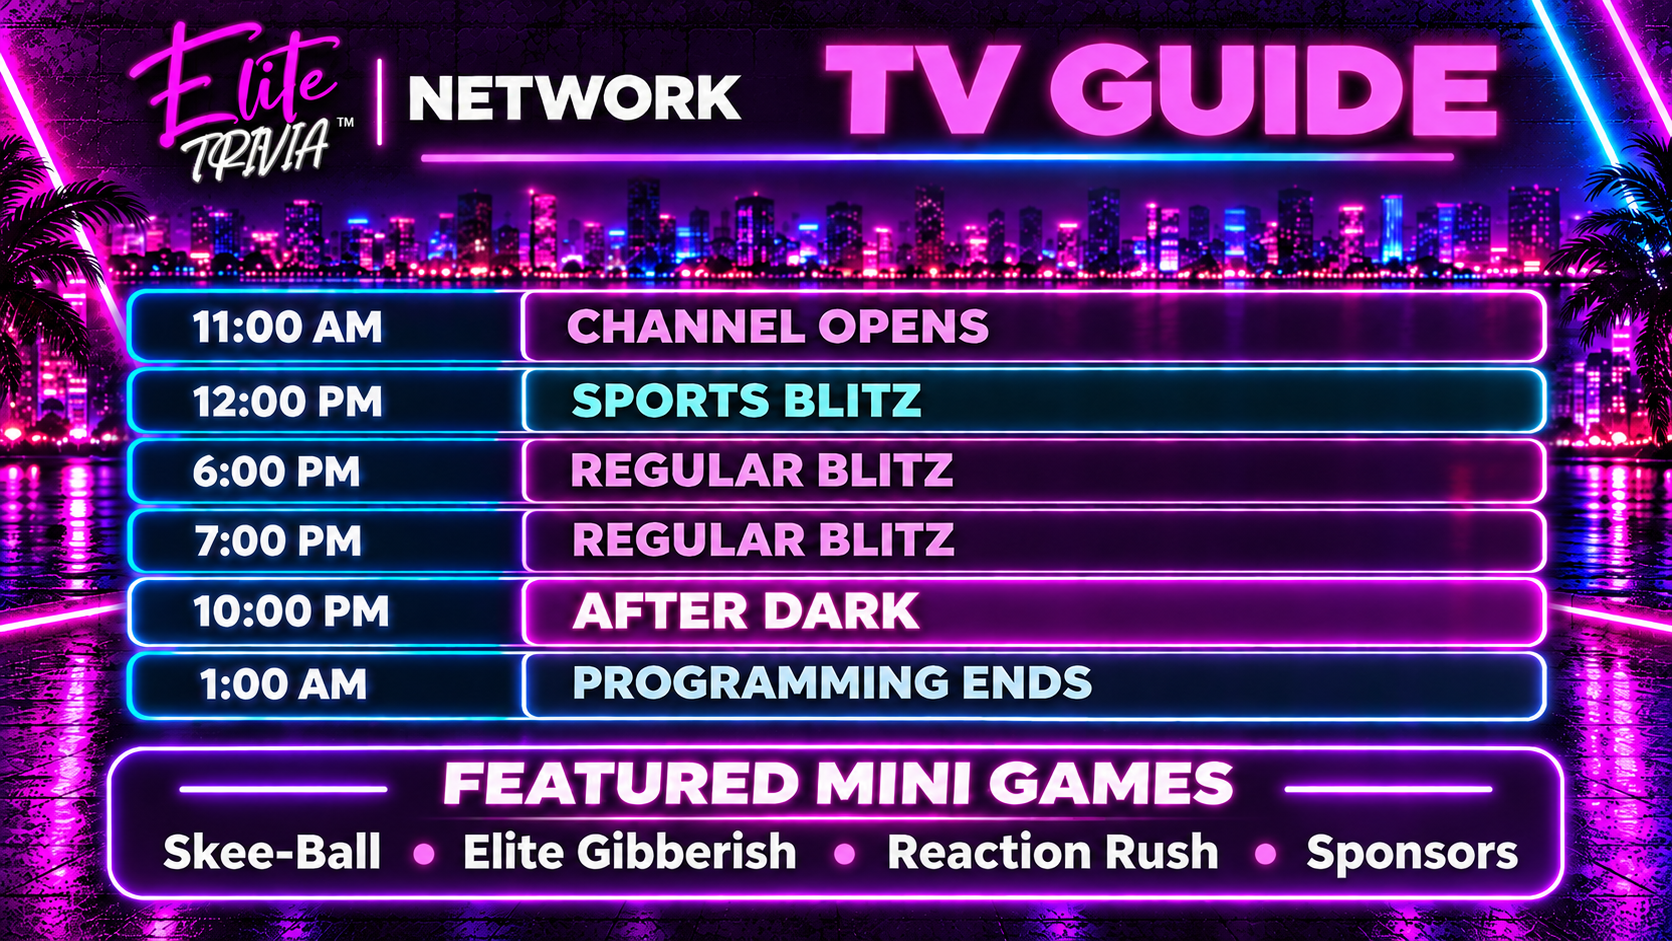
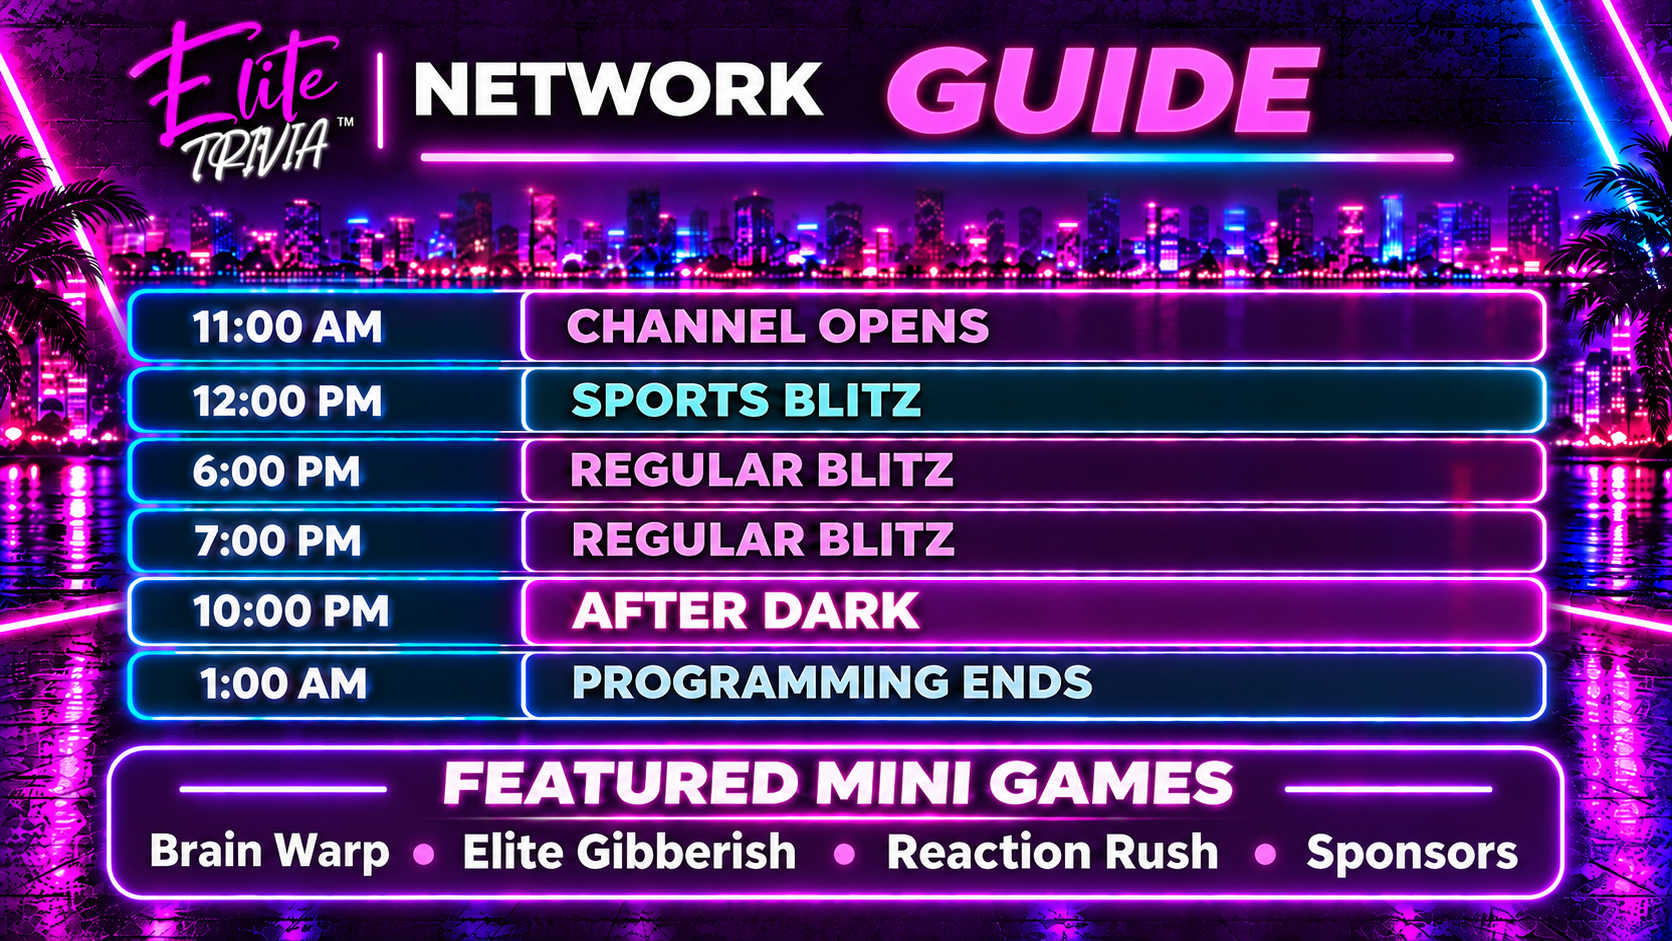
Improve Elite Network Blitz timing, mini-game rotation, TV layout and slides

Changed region(s): [[0.0, 0.0, 1.0, 1.0], [0.7775, 0.8937, 0.9019, 0.9245]]

diff --git a/web/tv.html b/web/tv.html
@@ -590,13 +590,13 @@ html,body{margin:0;width:100%;height:100%;overflow:hidden;background:#02040a;fon
 #eliteStableMiniJoin{padding:3% 5% 8%;--mj-unit:min(1vw,1.7778vh)}
 #eliteStableMiniJoin .eliteMiniJoinLayout{display:grid;grid-template-columns:minmax(0,1fr) 32%;gap:5%;align-items:center;width:100%;max-height:100%}
 #eliteStableMiniJoin .eliteMiniJoinCopy{min-width:0;text-align:center}
-#eliteStableMiniJoin .networkKicker{font-size:calc(var(--mj-unit)*1.8);margin:0 0 calc(var(--mj-unit)*.75)}
-#eliteStableMiniJoin .networkTitle{font-size:calc(var(--mj-unit)*4.2);line-height:1.04}
-#eliteStableMiniJoin .networkSub{font-size:calc(var(--mj-unit)*2.05);margin-top:calc(var(--mj-unit)*.85);line-height:1.15;overflow-wrap:anywhere}
-#eliteStableMiniJoin .comingTime{font-size:calc(var(--mj-unit)*5.4);margin:calc(var(--mj-unit)*.85) 0;line-height:1}
+#eliteStableMiniJoin .networkKicker{font-size:calc(var(--mj-unit)*1.9);margin:0 0 calc(var(--mj-unit)*.75)}
+#eliteStableMiniJoin .networkTitle{font-size:calc(var(--mj-unit)*4.5);line-height:1.04}
+#eliteStableMiniJoin .networkSub{font-size:calc(var(--mj-unit)*2.18);margin-top:calc(var(--mj-unit)*.85);line-height:1.15;overflow-wrap:anywhere}
+#eliteStableMiniJoin .comingTime{font-size:calc(var(--mj-unit)*5.75);margin:calc(var(--mj-unit)*.85) 0;line-height:1}
 #eliteStableMiniJoin .networkNext{font-size:calc(var(--mj-unit)*1.55);margin-top:calc(var(--mj-unit)*1.15);padding:calc(var(--mj-unit)*.7) calc(var(--mj-unit)*1.3);line-height:1.2}
 #eliteStableMiniJoin .eliteMiniJoinQr{justify-self:center;background:white;padding:calc(var(--mj-unit)*.85);border-radius:18px}
-#eliteStableMiniJoin .eliteMiniJoinQr img{display:block;width:calc(var(--mj-unit)*22);height:calc(var(--mj-unit)*22);object-fit:contain}
+#eliteStableMiniJoin .eliteMiniJoinQr img{display:block;width:calc(var(--mj-unit)*23);height:calc(var(--mj-unit)*23);object-fit:contain}
 
 /* ELITE_RESULT_STAGES_20261120: show answer then large, centered results. */
 .eliteCenterReveal{width:96%;height:88%;max-width:1500px;margin:auto;padding:1.1% 2%;
@@ -737,11 +737,11 @@ function renderCategory(state){
 
       <div style="width:66%;height:100%;display:flex;flex-direction:column;align-items:center;justify-content:center;text-align:center;min-width:0">
 
-        <div class="pill">
+        <div class="pill" style="font-size:38px;line-height:1.15">
           ROUND ${q.round}  -  QUESTION ${q.question_number} OF ${state.round_question_count}
         </div>
 
-        <div class="categoryTitle" style="width:100%;max-height:56%;font-size:145px;margin:4% 0 2%;overflow:hidden">
+        <div class="categoryTitle" style="width:100%;max-height:62%;font-size:165px;margin:4% 0 2%;overflow:hidden">
           ${esc(q.category)}
         </div>
 
@@ -767,7 +767,7 @@ function renderCategory(state){
   const categoryTitle=document.querySelector('.categoryTitle');
   if(categoryTitle){
     requestAnimationFrame(()=>{
-      fitText(categoryTitle,145,42);
+      fitText(categoryTitle,165,48);
     });
   }
 }

diff --git a/main.py b/main.py
@@ -2914,10 +2914,26 @@ class GameEngine:
             return "final_wager"
         return q.get("scoring_type", "fixed")
 
+    def _effective_answer_seconds_locked(self, q=None):
+        q = q or self.question
+        duration = float(q.get("timer_seconds", 120))
+        if self._is_final_wager(q):
+            return duration
+        if self._is_roulette(q):
+            from collections import Counter
+            regular = [
+                float(item.get("timer_seconds", 120))
+                for item in self.questions
+                if self._scoring_type(item) in ("fixed", "fastest")
+            ]
+            if regular:
+                duration = Counter(regular).most_common(1)[0][0]
+        return max(1.0, duration - 10.0)
+
     def _timer_duration_for_screen_locked(self):
         if self.screen == "wager":
             return float(self.question.get("wager_seconds", 30))
-        return float(self.question.get("timer_seconds", 120))
+        return self._effective_answer_seconds_locked()
 
     def _remaining_locked(self):
         if not self.timer_running or self.timer_ends_monotonic is None:
@@ -2934,7 +2950,7 @@ class GameEngine:
 
         max_points = int(q.get("max_points", 10))
         min_points = int(q.get("min_points", 5))
-        duration = max(0.001, float(q.get("timer_seconds", 120)))
+        duration = max(0.001, self._effective_answer_seconds_locked(q))
 
         if elapsed is None:
             if self.timer_running and self.timer_started_monotonic is not None:
@@ -4190,7 +4206,7 @@ class GameEngine:
                     "choices": q.get("choices", []),
                     "correct_index": correct_index,
                     "answer_display": answer_display,
-                    "timer_seconds": int(q.get("timer_seconds", 120)),
+                    "timer_seconds": int(self._effective_answer_seconds_locked(q)),
                     "wager_seconds": int(q.get("wager_seconds", 30)),
                     # Final Wager is score-based, not a 10/20/30/40 point question.
                     # Return zero point fields so any client that reads these values
@@ -4891,13 +4907,13 @@ class NetworkController:
                     or [
                         "reaction_rush",
                         "gibberish",
-                        "skee_ball",
+                        "brain_warp",
                     ]
                 )
                 rotation = [
                     kind for kind in rotation
-                    if kind in ("reaction_rush", "gibberish", "skee_ball")
-                ] or ["reaction_rush", "gibberish", "skee_ball"]
+                    if kind in ("reaction_rush", "gibberish", "brain_warp")
+                ] or ["reaction_rush", "gibberish", "brain_warp"]
 
                 start_iso = (
                     next_event.get(
